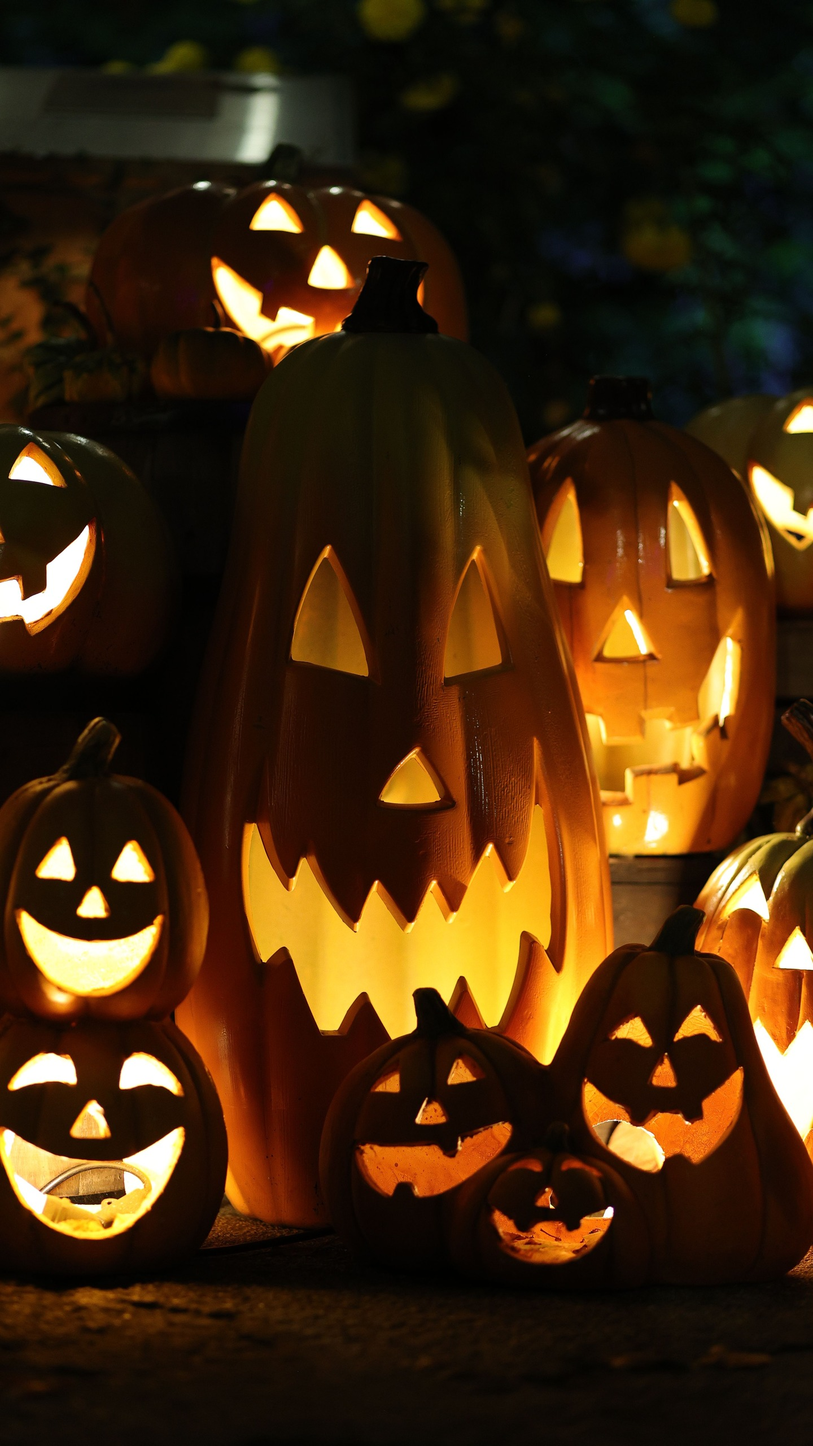
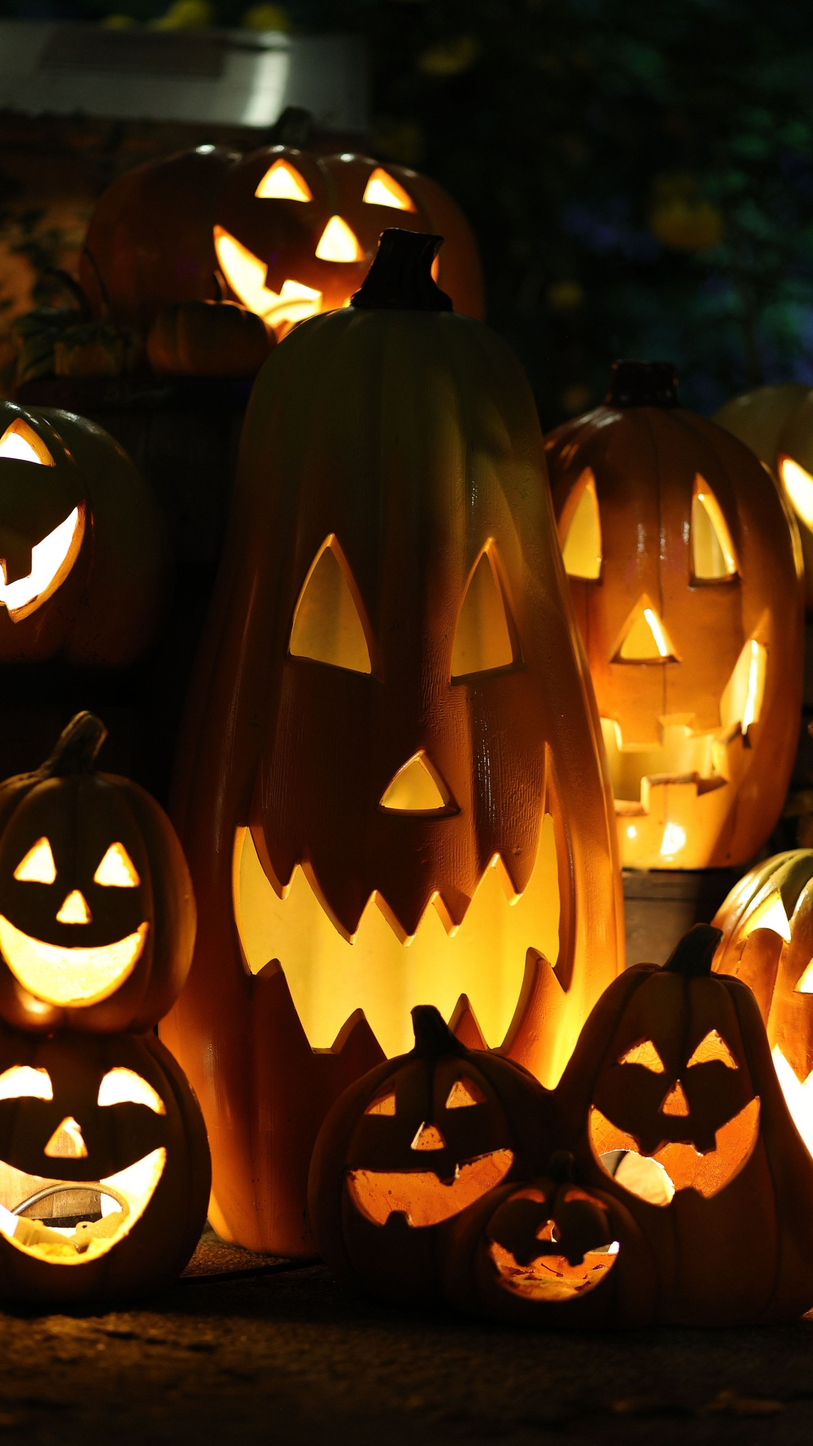
リール：動画の自動づくりを止めて写真セットだけ（Edits で組む）・光るかぼちゃの壁の傾きを直す

diff --git a/reel-pc.js b/reel-pc.js
@@ -38,7 +38,9 @@ try {
   fs.writeFileSync(LOCK, String(process.pid));
   try {
     git(["fetch", "-q", "origin", "main"]);
-    const list = remote("specials.json", []).filter((s) => s.kind === "reel" && !s.skipped && (s.rebuild || !s.video) && s.images?.length);
+    // 動画は作らない（本人が Edits で組む）。写真セットだけを iCloud Drive「リール」へ。config.reelVideo: true で動画も
+    const VIDEO = remote("config.json", {}).reelVideo === true;
+    const list = remote("specials.json", []).filter((s) => s.kind === "reel" && !s.skipped && s.postAt > new Date().toISOString() && (s.rebuild || (VIDEO ? !s.video : !s.kitAt)) && s.images?.length);
     for (const x of list) {
       fs.writeFileSync(LOCK, String(process.pid)); // 動いている印を新しく
       const tmp = path.join(ROOT, ".work", "reel-src", x.id);
@@ -55,6 +57,21 @@ try {
       const label = String(x.title || "").replace(/^リール[：:（(]?/, "").replace(/[（(]\d+枚[）)]?$/, "").replace(/[）)]$/, "").replace(/^\d+\/\d+の/, "").replace(/[\\/:*?"<>|]/g, "").slice(0, 40) || x.id;
       const kitDir = fs.existsSync(KIT_ROOT) ? path.join(KIT_ROOT, `${x.postAt.slice(5, 7)}${x.postAt.slice(8, 10)}_${label}`) : null;
       if (kitDir) for (const d of fs.readdirSync(KIT_ROOT)) if (d.startsWith(x.postAt.slice(5, 7) + x.postAt.slice(8, 10) + "_") && path.join(KIT_ROOT, d) !== kitDir) fs.rmSync(path.join(KIT_ROOT, d), { recursive: true, force: true }); // 同じ日の古いフォルダ（中身が変わった時）
+      if (!VIDEO) {
+        if (!kitDir) throw new Error("iCloud Drive のフォルダがありません");
+        await require("./lib/reel-kit").makeKit(items, kitDir, { layout: x.layout || null });
+        makeSync(ROOT)(`reel photos ${x.id}`, [], (rm) => {
+          const sp = rm("specials.json", []);
+          const k = sp.findIndex((y) => y.id === x.id);
+          if (k === -1) return {};
+          const again = ["images", "layout"].some((f) => JSON.stringify(sp[k][f]) !== JSON.stringify(x[f]));
+          sp[k] = { ...sp[k], kitAt: new Date().toISOString(), kitDir: path.basename(kitDir), rebuild: again };
+          return { "specials.json": sp };
+        });
+        fs.rmSync(tmp, { recursive: true, force: true });
+        console.log(`リールの写真を用意しました ${x.id}（${items.length}枚 → ${path.basename(kitDir)}）`);
+        continue;
+      }
       const r = await makeReelAE(items, path.join(ROOT, video), ROOT, { kitDir, durations: x.durations || null, style: x.style || "oto", format: x.format || "dump", hook: x.hook || x.reelTitle || "", sub: x.reelSub || "", answer: x.answer || null, bpm: x.bpm, beats: x.beats, layout: x.layout || null, rhythm: x.rhythm || undefined });
       const cover = video.replace(/\.mp4$/, "-cover.jpg");
       const old = [x.video, x.cover].filter(Boolean);

diff --git a/lib/reel-kit.js b/lib/reel-kit.js
@@ -1,0 +1,49 @@
+// リール用の写真セット（動画は作らない。本人が Edits で組む用）
+//   縦 9:16（1080x1920）に切り抜き・メリハリのある色（vivid / vividNight）・使う順番の番号付き
+//   layout: "side"（横位置を90°倒す）/ "frame"（白い紙に置く）にも対応
+const fs = require("fs");
+const path = require("path");
+const sharp = require("sharp");
+const { filmLook } = require("./film-look");
+const W = 1080;
+const H = 1920;
+
+async function makeKit(items, kitDir, opts = {}) {
+  fs.mkdirSync(kitDir, { recursive: true });
+  // 前の写真（と iCloud の衝突コピー・前の完成動画）を消す
+  for (const old of fs.readdirSync(kitDir)) if (/^\d+( ?\(\d+\))?\.jpg$/.test(old) || /^完成動画.*\.mp4$/.test(old)) fs.rmSync(path.join(kitDir, old), { force: true });
+  // 色：最初の8枚の明るさで、夜（vividNight）か昼（vivid）か
+  let look = opts.look || "auto";
+  if (look === "auto") {
+    const ls = [];
+    for (const it of items.slice(0, 8)) {
+      const st = await sharp(fs.readFileSync(it.src)).stats();
+      ls.push(0.299 * st.channels[0].mean + 0.587 * st.channels[1].mean + 0.114 * st.channels[2].mean);
+    }
+    look = ls.filter((v) => v < 100).length >= ls.length / 2 ? "vividNight" : "vivid";
+  }
+  const out = [];
+  for (const [i, it] of items.entries()) {
+    let buf = await sharp(fs.readFileSync(it.src)).rotate().toBuffer();
+    if (opts.layout === "side") {
+      const m = await sharp(buf).metadata();
+      if (m.width > m.height) buf = await sharp(buf).rotate(90).toBuffer();
+    }
+    const f = path.join(kitDir, `${String(i + 1).padStart(2, "0")}.jpg`);
+    if (opts.layout === "frame") {
+      const ph = await sharp(buf).resize(Math.round(W * 0.8), Math.round(H * 0.62), { fit: "inside" }).toBuffer();
+      const g = await (await filmLook(ph, { look })).jpeg({ quality: 94 }).toBuffer();
+      const gm = await sharp(g).metadata();
+      await sharp({ create: { width: W, height: H, channels: 3, background: opts.frameColor || "#f4f2ee" } })
+        .composite([{ input: g, left: Math.round((W - gm.width) / 2), top: Math.round((H - gm.height) / 2 - H * 0.02) }])
+        .jpeg({ quality: 93 })
+        .toFile(f);
+    } else {
+      const crop = await sharp(buf).resize(W, H, { fit: "cover", position: sharp.strategy.attention }).toBuffer();
+      await (await filmLook(crop, { look })).jpeg({ quality: 93 }).toFile(f);
+    }
+    out.push(f);
+  }
+  return { files: out, look };
+}
+module.exports = { makeKit };

diff --git a/post.js b/post.js
@@ -153,6 +153,7 @@ const reelOpts = (x) => ({ durations: x.durations || null, style: x.style || "ot
 // ---- リールの動画を前もって作っておく（アプリで再生・保存して、インスタで曲を付けて投稿する） ----
 //   予約されたリール・アプリでテンポやタイトルを変えたリール（rebuild）を作り直す。ファイル名を毎回変えて、古い動画が見えないように
 async function buildReels() {
+  if (read("config.json", {}).reelVideo !== true) return; // 動画は作らない（本人が Edits で組む・2026-10-30）
   // PC（After Effects）が作るのを待つ。3時間たっても作られていなければ、ここ（ffmpeg版）で作る
   const pcWait = (s) => Date.now() - Date.parse(s.rebuildAt || s.builtAt || s.postAt) < 3 * 3600e3 && Date.parse(s.postAt) - Date.now() > 3 * 3600e3;
   const list = read("specials.json", []).filter((s) => s.kind === "reel" && !s.skipped && (s.rebuild || !s.video) && s.images?.length && !pcWait(s));
